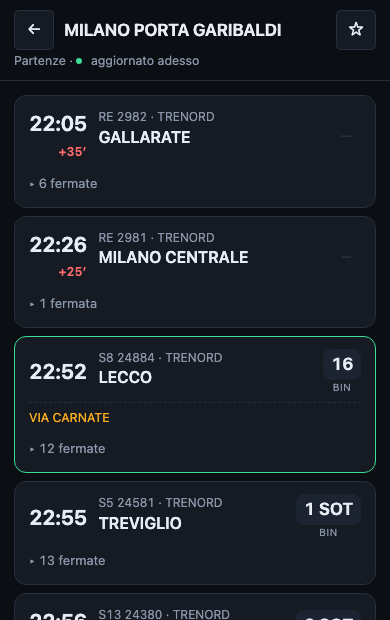
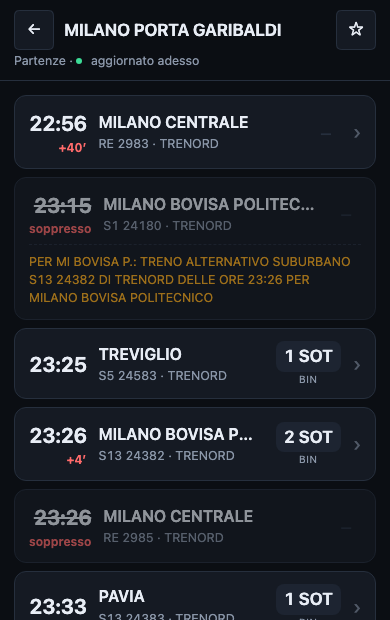
refactor: make the train card itself open its stops
Every card carried a "▸ N fermate" row at the bottom. On a forty-train board
that is a screenful spent on a control most people never touch. The card is now
the disclosure: tapping the train opens its stops, and a chevron replaces the
line. Roughly eight trains fit a phone screen where five did before.

Destination moves above the category and number. It was underneath, so the eye
had to cross a line of small grey text that matters least to reach the thing it
was looking for.

The arrival time joins that same detail line instead of holding a line of its
own, and the carrier steps aside when it is there — the line would otherwise
truncate, and the carrier is the field that informs least: RFI itself shows it
only as a logo, and on a regional route it hardly varies.

Also drops the train count above an empty result, where it only restated what
the empty state already says.

diff --git a/web/app.css b/web/app.css
@@ -187,35 +187,55 @@ ul { list-style: none; margin: 0; padding: 0; }
 
 /* ---------- elenco treni ---------- */
 
+/* La scheda è essa stessa il comando che apre le fermate: prima c'era una riga
+   "▸ 6 fermate" in fondo a ognuna, che su quaranta treni costava uno schermo
+   intero per un controllo che si usa di rado. Ora si toccano il treno e basta,
+   e al suo posto resta un chevron. */
+
 .treno {
-  display: grid;
-  grid-template-columns: auto 1fr auto;
-  gap: 2px 12px;
-  padding: 12px 14px;
   margin-bottom: 8px;
   background: var(--piano);
   border: 1px solid var(--bordo);
   border-radius: var(--raggio);
+  overflow: hidden;
 }
 .treno.parte { border-color: var(--verde); }
 .treno.soppresso { opacity: 0.6; }
 
-.orario { grid-column: 1; grid-row: 1 / span 2; align-self: center; text-align: right; }
-.orario .ora { font-size: 21px; font-weight: 650; letter-spacing: -0.02em; }
-.orario .ora.barrato { text-decoration: line-through; text-decoration-thickness: 2px; }
-.orario .scarto { font-size: 12px; font-weight: 650; color: var(--rosso); }
-.orario .scarto.puntuale { color: var(--verde); }
+.riga-treno {
+  display: grid;
+  grid-template-columns: auto 1fr auto;
+  align-items: center;
+  gap: 6px 12px;
+  padding: 12px 14px;
+}
+.riga-treno.espandibile { grid-template-columns: auto 1fr auto auto; }
+summary.riga-treno { cursor: pointer; list-style: none; }
+summary.riga-treno::-webkit-details-marker { display: none; }
 
-.dove { grid-column: 2; min-width: 0; }
-.dove .meta { display: block; font-size: 12px; color: var(--tenue); }
+.orario { text-align: right; }
+.orario .ora { display: block; font-size: 21px; font-weight: 650; letter-spacing: -0.02em; }
+.orario .ora.barrato { text-decoration: line-through; text-decoration-thickness: 2px; }
+.orario .scarto { display: block; font-size: 12px; font-weight: 650; color: var(--rosso); }
+
+/* La destinazione sta sopra: è la seconda cosa che si cerca dopo l'ora, e
+   prima era sotto una riga di grigio piccolo che si leggeva per forza per
+   prima senza servire a niente. */
+.dove { min-width: 0; }
+.destinazione { font-weight: 600; overflow: hidden; text-overflow: ellipsis; white-space: nowrap; }
 /* Sugli arrivi la colonna porta la provenienza, non la destinazione: senza
    dirlo, due tabelloni identici significherebbero il contrario l'uno dell'altro. */
 .destinazione .da { color: var(--tenue); font-weight: 400; }
-.destinazione { font-weight: 600; overflow: hidden; text-overflow: ellipsis; white-space: nowrap; }
-.arrivo { font-size: 13px; color: var(--tenue); margin-top: 1px; }
-.arrivo b { color: var(--testo); font-weight: 600; }
+.dove .meta {
+  display: block; margin-top: 1px;
+  font-size: 12.5px; color: var(--tenue);
+  overflow: hidden; text-overflow: ellipsis; white-space: nowrap;
+}
+/* Nella vista per tratta è il dato che si è venuti a cercare, quindi risalta
+   dentro la riga di dettaglio invece di occupare una riga propria. */
+.dove .meta .arrivo { color: var(--testo); font-weight: 650; }
 
-.binario { grid-column: 3; grid-row: 1 / span 2; align-self: center; text-align: center; min-width: 30px; }
+.binario { text-align: center; min-width: 30px; }
 .binario .num {
   display: block; font-size: 17px; font-weight: 650;
   padding: 3px 8px; border-radius: 8px; background: var(--piano-alto);
@@ -225,25 +245,27 @@ ul { list-style: none; margin: 0; padding: 0; }
    segno posato, non due righe di testo che gridano più del binario vero. */
 .binario .ignoto { color: var(--bordo); font-size: 20px; }
 
+.apri {
+  color: var(--tenue); opacity: 0.5; font-size: 20px; line-height: 1;
+  transition: transform 0.15s ease;
+}
+@media (prefers-reduced-motion: reduce) { .apri { transition: none; } }
+details[open] .apri { transform: rotate(90deg); }
+
+/* Gli avvisi restano visibili senza aprire niente: "treno alternativo" o
+   "carrozza in coda" servono mentre si guarda l'elenco, non dopo. */
 .avviso {
-  grid-column: 1 / -1; margin-top: 6px; padding-top: 6px;
-  border-top: 1px dashed var(--bordo);
+  grid-column: 1 / -1;
+  padding-top: 8px; border-top: 1px dashed var(--bordo);
   font-size: 12.5px; color: var(--ambra);
 }
 
-.fermate { grid-column: 1 / -1; margin-top: 8px; }
-.fermate summary {
-  font-size: 13px; color: var(--tenue); cursor: pointer; list-style: none; padding: 2px 0;
-}
-.fermate summary::-webkit-details-marker { display: none; }
-.fermate summary::before { content: "▸ "; }
-.fermate[open] summary::before { content: "▾ "; }
-.fermate ol {
-  margin: 8px 0 0; padding: 0 0 0 14px;
+.fermate {
+  margin: 0 14px 12px 46px; padding: 0 0 0 14px;
   border-left: 2px solid var(--bordo);
   font-size: 13.5px;
 }
-.fermate li { display: flex; justify-content: space-between; gap: 10px; padding: 2px 0; }
+.fermate li { display: flex; justify-content: space-between; gap: 10px; padding: 2.5px 0; }
 .fermate li.meta-scelta { color: var(--ambra); font-weight: 600; }
 .fermate li time { color: var(--tenue); }
 .fermate li.meta-scelta time { color: inherit; }

diff --git a/web/app.js b/web/app.js
@@ -406,7 +406,8 @@ function disegnaRisultati() {
     note.push(`<p class="nota">RFI non pubblica le fermate dei treni in arrivo:
       qui sotto ci sono tutti gli arrivi, senza il filtro per ${esc(aNome)}.</p>`);
   }
-  if (d.filtered) {
+  // A zero treni il conteggio ripeterebbe quello che dice già lo stato vuoto.
+  if (d.filtered && d.trains.length > 0) {
     const n = d.trains.length;
     note.push(`<p class="nota">${n} ${n === 1 ? 'treno' : 'treni'} su ${d.total}
       ${n === 1 ? 'ferma' : 'fermano'} a ${esc(aNome)}.</p>`);
@@ -433,32 +434,49 @@ function rigaTreno(t, d) {
   else if (t.delay > 0) scarto = `<span class="scarto">+${t.delay}′</span>`;
   else if (t.status) scarto = `<span class="scarto">${esc(t.status.toLowerCase())}</span>`;
 
-  const meta = [t.category, t.number].filter(Boolean).join(' ');
   // Su alcuni treni RFI ripete la categoria anche come vettore
   // ("INTERCITY NOTTE · INTERCITY NOTTE"): si scrive una volta sola.
   const vettore = t.carrier && canon(t.carrier) !== canon(t.category || '') ? t.carrier : '';
+  // Con l'orario di arrivo la riga non ci sta tutta e verrebbe troncata: cede
+  // il posto il vettore, che è il campo che informa meno — RFI stesso lo mostra
+  // come logo, e su una tratta regionale è quasi sempre lo stesso.
+  const dettagli = [
+    t.arrival ? `<span class="arrivo">arrivo ${esc(t.arrival)}</span>` : '',
+    esc([t.category, t.number].filter(Boolean).join(' ')),
+    t.arrival ? '' : esc(vettore),
+  ].filter(Boolean).join(' · ');
 
-  return `<li class="${classi.join(' ')}">
+  const espandibile = t.stops && t.stops.length > 0;
+  const contenuto = `
     <div class="orario">
-      <div class="ora ${soppresso ? 'barrato' : ''}">${esc(t.time)}</div>
+      <span class="ora ${soppresso ? 'barrato' : ''}">${esc(t.time)}</span>
       ${scarto}
     </div>
     <div class="dove">
-      <span class="meta">${esc(meta)}${vettore ? ` · ${esc(vettore)}` : ''}</span>
       <div class="destinazione">${d.arrivals ? '<span class="da">da</span> ' : ''}${esc(t.terminus)}</div>
-      ${t.arrival ? `<div class="arrivo">arrivo a ${esc(d.to)} alle <b>${esc(t.arrival)}</b></div>` : ''}
+      <span class="meta">${dettagli}</span>
     </div>
     <div class="binario">
       ${t.platform ? `<span class="num">${esc(t.platform)}</span><span class="cap">BIN</span>`
                    : '<span class="ignoto" title="Binario non ancora assegnato">–</span>'}
     </div>
-    ${t.notes ? `<div class="avviso">${esc(t.notes)}</div>` : ''}
-    ${fermate(t, d)}
+    ${espandibile ? '<span class="apri" aria-hidden="true">›</span>' : ''}
+    ${t.notes ? `<div class="avviso">${esc(t.notes)}</div>` : ''}`;
+
+  const riga = `riga-treno${espandibile ? ' espandibile' : ''}`;
+  if (!espandibile) {
+    return `<li class="${classi.join(' ')}"><div class="${riga}">${contenuto}</div></li>`;
+  }
+  // La scheda intera è il <summary>: toccare il treno apre le sue fermate.
+  return `<li class="${classi.join(' ')}">
+    <details>
+      <summary class="${riga}">${contenuto}</summary>
+      ${fermate(t)}
+    </details>
   </li>`;
 }
 
-function fermate(t, d) {
-  if (!t.stops || !t.stops.length) return '';
+function fermate(t) {
   // La fermata che interessa è quella su cui il filtro ha agganciato il treno:
   // la si riconosce dall'orario di arrivo, e va evidenziata una volta sola —
   // un treno può ripassare a orari diversi ma non due volte allo stesso.
@@ -466,10 +484,7 @@ function fermate(t, d) {
   const voci = t.stops.map((f, i) =>
     `<li class="${i === evidenziata ? 'meta-scelta' : ''}">
       <span>${esc(f.name)}</span><time>${esc(f.time)}</time></li>`).join('');
-  return `<details class="fermate">
-    <summary>${t.stops.length} ${t.stops.length === 1 ? 'fermata' : 'fermate'}</summary>
-    <ol>${voci}</ol>
-  </details>`;
+  return `<ol class="fermate">${voci}</ol>`;
 }
 
 /* ------------------------------------------------------------------ eventi */

diff --git a/README.md b/README.md
@@ -13,7 +13,7 @@ con l'orario a cui ci arrivano.
 |  |  |
 |:--|:--|
 | <img width="330" src="docs/home.png" alt="La home con quattro tratte fra i preferiti"> | <img width="330" src="docs/tratta.png" alt="I treni da Milano Porta Garibaldi che fermano a Milano Rogoredo, con l'elenco fermate aperto"> |
-| **Le tratte salvate stanno in cima**, e si aprono con un tocco. | **Solo i treni che fermano dove vai**, con l'ora a cui ci arrivano. Aprendo le fermate, la tua è evidenziata. |
+| **Le tratte salvate stanno in cima**, e si aprono con un tocco. | **Solo i treni che fermano dove vai**, con l'ora a cui ci arrivano. Toccando il treno si aprono le fermate, con la tua evidenziata. |
 | <img width="330" src="docs/tabellone.png" alt="Il tabellone completo delle partenze da Milano Porta Garibaldi"> | <img width="330" src="docs/ricerca.png" alt="La ricerca stazione con la corrispondenza evidenziata"> |
 | **Il tabellone completo**, se ti serve tutto: ritardi, binari, soppressioni e avvisi. | **La ricerca** cerca dentro il nome, non solo all'inizio, e non tocca la rete. |
 
